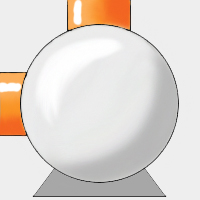
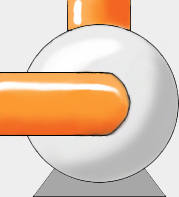
lab 2 without inputs info

diff --git a/views/secondApp.html b/views/secondApp.html
@@ -24,7 +24,7 @@
 <body>
 
 <div id="appBlock">
-    <div class="myProgress" style="margin-left: 876px; margin-top: 612px;">
+    <div class="myProgress" style="margin-left: 946px; margin-top: 612px;">
         <div class="myBar" id="barIndicator0"></div>
     </div>
     <div class="myProgress" style="margin-left: 1144px; margin-top: 414px;">
@@ -37,8 +37,8 @@
     </div>
     <img class="abs" id="tank" src="/images/secondApp/Tank.jpg" title="Танк c молоком">
     <img class="abs" id="nasos" title="Насос" src="/images/secondApp/Nasos.jpg">
-    <img class="abs" id="buffer_tank" title="Расширительный бак" src="/images/secondApp/buferny_bak_2.jpg">
-    <img class="abs" id="nasos2" title="Насос" src="/images/secondApp/Nasos_vniz.jpg">
+    <img class="abs" id="buffer_tank" title="Расширительный бак" src="/images/secondApp/buferny_bak.jpg">
+    <img class="abs" id="nasos2" title="Насос" src="/images/secondApp/Nasos.jpg">
     <img class="abs" id="gomo" onclick="chooseGomog()" title="Гомогенизатор" src="/images/secondApp/gomogena.jpg">
     <img class="abs" id="pou1" onclick="chooseSec1()" title="ПОУ1" src="/images/secondApp/1.jpg">
     <img class="abs" id="pou2" onclick="chooseSec2()" title="ПОУ2" src="/images/secondApp/2.jpg">
@@ -49,83 +49,93 @@
     <img class="abs" id="separator" title="Сепаратор" src="/images/secondApp/Separator_2.jpg">
     <img class="abs" id="slivki" title="Танк со сливками" src="/images/secondApp/bak_dlya_slivok.jpg">
     <img class="abs" id="tank2" title="Танк с готовым продуктом" src="/images/secondApp/bak_s_produktom.jpg">
+    <img class="abs" id="kran" title="Кран" src="/images/secondApp/kran_vlevo.jpg">
         <!-- Pipes -->
     <!-- Вертикальные -->
-    <div class="outerPipesVert" id="vertPipe1" style="height: 19px; margin-top: 286px; margin-left: 62px;">
-        <div class="innerPipesVert" data-lenght="19"></div>
+    <div class="outerPipesVert" id="vertPipe1" style="height: 232px; margin-top: 286px; margin-left: 62px;">
+        <div class="innerPipesVert" data-lenght="215"></div>
     </div>
-    <div class="outerPipesVert" id="vertPipe2" style="height: 63px; margin-top: 219px; margin-left: 171px; -webkit-transform: rotate(-180deg);">
-        <div class="innerPipesVert" data-lenght="63"></div>
+    <div class="outerPipesVert" id="vertPipe2" style="height: 69px; margin-top: 411px; margin-left: 98px; -webkit-transform: rotate(-180deg);">
+        <div class="innerPipesVert" data-lenght="69"></div>
     </div>
-    <div class="outerPipesVert" id="vertPipe3" style="height: 35px; margin-top: 202px; margin-left: 287px;">
+    <div class="outerPipesVert" id="vertPipe3" style="height: 35px; margin-top: 394px; margin-left: 195px;">
         <div class="innerPipesVert" data-lenght="18" style="margin-top: 17px;"></div>
     </div>
-    <div class="outerPipesVert" id="vertPipe4" style="height: 80px; margin-top: 157px; margin-left: 312px;">
-        <div class="innerPipesVert" data-lenght="63" style="margin-top: 17px;"></div>
+    <div class="outerPipesVert" id="vertPipe4" style="height: 272px; margin-top: 157px; margin-left: 234px;">
+        <div class="innerPipesVert" data-lenght="255" style="margin-top: 17px;"></div>
     </div>
-    <div class="outerPipesVert" id="vertPipe5" style="height: 30px; margin-top: 342px; margin-left: 479px;">
+    <div class="outerPipesVert" id="vertPipe5" style="height: 30px; margin-top: 342px; margin-left: 549px;">
         <div class="innerPipesVert" data-lenght="30"></div>
     </div>
-    <div class="outerPipesVert" id="vertPipe6" style="height: 48px; margin-top: 324px; margin-left: 558px; -webkit-transform: rotate(-180deg);">
-        <div class="innerPipesVert" data-lenght="48"></div>
+    <div class="outerPipesVert" id="vertPipe6" style="height: 30px; margin-top: 342px; margin-left: 628px; -webkit-transform: rotate(-180deg);">
+        <div class="innerPipesVert" data-lenght="30"></div>
     </div>
-    <div class="outerPipesVert" id="vertPipe7" style="height: 48px; margin-top: 324px; margin-left: 636px;">
-        <div class="innerPipesVert" data-lenght="48"></div>
+    <div class="outerPipesVert" id="vertPipe7" style="height: 30px; margin-top: 342px; margin-left: 706px;">
+        <div class="innerPipesVert" data-lenght="30"></div>
     </div>
-    <div class="outerPipesVert" id="vertPipe8" style="height: 344px; margin-top: 174px; margin-left: 845px; -webkit-transform: rotate(-180deg);">
-        <div class="innerPipesVert" data-lenght="327" style="margin-top: 17px;"></div>
+    <div class="outerPipesVert" id="vertPipe8" style="height: 349px; margin-top: 174px; margin-left: 915px; -webkit-transform: rotate(-180deg);">
+        <div class="innerPipesVert" data-lenght="332" style="margin-top: 17px;"></div>
     </div>
-    <div class="outerPipesVert" id="vertPipe9" style="height: 38px; margin-top: 534px; margin-left: 479px;">
+    <div class="outerPipesVert" id="vertPipe9" style="height: 38px; margin-top: 534px; margin-left: 549px;">
         <div class="innerPipesVert" data-lenght="38"></div>
     </div>
-    <div class="outerPipesVert" id="vertPipe10" style="height: 30px; margin-top: 534px; margin-left: 558px; -webkit-transform: rotate(-180deg);">
+    <div class="outerPipesVert" id="vertPipe10" style="height: 30px; margin-top: 534px; margin-left: 628px; -webkit-transform: rotate(-180deg);">
         <div class="innerPipesVert" data-lenght="30"></div>
     </div>
-    <div class="outerPipesVert" id="vertPipe11" style="height: 161px; margin-top: 589px; margin-left: 710px;">
+    <div class="outerPipesVert" id="vertPipe11" style="height: 161px; margin-top: 589px; margin-left: 780px;">
         <div class="innerPipesVert" data-lenght="144"></div>
     </div>
-    <div class="outerPipesVert" id="vertPipe12" style="height: 248px; margin-top: 534px; margin-left: 399px;">
+    <div class="outerPipesVert" id="vertPipe12" style="height: 248px; margin-top: 534px; margin-left: 469px;">
         <div class="innerPipesVert" data-lenght="231"></div>
     </div>
-    <div class="outerPipesVert" id="vertPipe13" style="height: 231px; margin-top: 534px; margin-left: 1055px; -webkit-transform: rotate(-180deg);">
+    <div class="outerPipesVert" id="vertPipe13" style="height: 231px; margin-top: 534px; margin-left: 1056px; -webkit-transform: rotate(-180deg);">
         <div class="innerPipesVert" data-lenght="231"></div>
+    </div>
+    <div class="outerPipesVert" id="vertPipe14" style="height: 124px; margin-top: 394px; margin-left: 334px;">
+        <div class="innerPipesVert" data-lenght="90" style="margin-top: 17px;"></div>
+    </div>
+    <div class="outerPipesVert" id="vertPipe15" style="height: 35px; margin-top: 394px; margin-left: 271px; -webkit-transform: rotate(-180deg);">
+        <div class="innerPipesVert" data-lenght="18"></div>
+    </div>
+    <div class="outerPipesVert" id="vertPipe16" style="height: 155px; margin-top: 325px; margin-left: 370px; -webkit-transform: rotate(-180deg);">
+        <div class="innerPipesVert" data-lenght="138"></div>
     </div>
     <!-- Горизонтальные -->
-    <div class="outerPipesHorz" id="horzPipe1" style="margin-top: 305px; margin-left: 62px; width: 88px;">
-        <div class="innerPipesHorz" data-lenght="71" style="margin-left: 17px;"></div>
+    <div class="outerPipesHorz" id="horzPipe1" style="margin-top: 394px; margin-left: 288px; width: 46px;">
+        <div class="innerPipesHorz" data-lenght="46"></div>
     </div>
-    <div class="outerPipesHorz" id="horzPipe2" style="margin-top: 202px; margin-left: 171px; width: 116px;">
-        <div class="innerPipesHorz" data-lenght="99" style="margin-left: 17px;"></div>
+    <div class="outerPipesHorz" id="horzPipe2" style="margin-top: 394px; margin-left: 98px; width: 97px;">
+        <div class="innerPipesHorz" data-lenght="82" style="margin-left: 17px;"></div>
     </div>
-    <div class="outerPipesHorz" id="horzPipe3" style="margin-top: 287px; margin-left: 374px; width: 50px;">
-        <div class="innerPipesHorz" data-lenght="33"></div>
+    <div class="outerPipesHorz" id="horzPipe3" style="margin-top: 325px; margin-left: 387px; width: 179px;">
+        <div class="innerPipesHorz" data-lenght="162"></div>
     </div>
-    <div class="outerPipesHorz" id="horzPipe4" style="margin-top: 304px; margin-left: 407px; width: 50px;">
+    <!--<div class="outerPipesHorz" id="horzPipe4" style="margin-top: 304px; margin-left: 407px; width: 50px;">
         <div class="innerPipesHorz" data-lenght="33" style="margin-left: 17px;"></div>
-    </div>
-    <div class="outerPipesHorz" id="horzPipe5" style="margin-top: 388px; margin-left: 685px; width: 90px;">
+    </div>-->
+    <div class="outerPipesHorz" id="horzPipe5" style="margin-top: 382px; margin-left: 755px; width: 90px;">
         <div class="innerPipesHorz" data-lenght="89"></div>
     </div>
-    <div class="outerPipesHorz" id="horzPipe6" style="margin-top: 501px; margin-left: 685px; width: 90px; text-align: -webkit-right;">
-        <div class="innerPipesHorz" data-lenght="90"></div>
+    <div class="outerPipesHorz" id="horzPipe6" style="margin-top: 506px; margin-left: 755px; width: 60px; text-align: -webkit-right;">
+        <div class="innerPipesHorz" data-lenght="60"></div>
     </div>
-    <div class="outerPipesHorz" id="horzPipe7" style="margin-top: 157px; margin-left: 329px; width: 533px; text-align: -webkit-right;">
-        <div class="innerPipesHorz" data-lenght="516" style="margin-right: 17px;"></div>
+    <div class="outerPipesHorz" id="horzPipe7" style="margin-top: 157px; margin-left: 251px; width: 681px; text-align: -webkit-right;">
+        <div class="innerPipesHorz" data-lenght="664" style="margin-right: 17px;"></div>
     </div>
-    <div class="outerPipesHorz" id="horzPipe8" style="margin-top: 501px; margin-left: 775px; width: 70px;">
-        <div class="innerPipesHorz" data-lenght="89" style="margin-left: -20px;"></div>
+    <div class="outerPipesHorz" id="horzPipe8" style="margin-top: 506px; margin-left: 850px; width: 65px;">
+        <div class="innerPipesHorz" data-lenght="65"></div>
     </div>
-    <div class="outerPipesHorz" id="horzPipe9" style="margin-top: 572px; margin-left: 479px; width: 72px;">
+    <div class="outerPipesHorz" id="horzPipe9" style="margin-top: 572px; margin-left: 549px; width: 72px;">
         <div class="innerPipesHorz" data-lenght="55" style="margin-left: 17px;"></div>
     </div>
-    <div class="outerPipesHorz" id="horzPipe10" style="margin-top: 572px; margin-left: 581px; width: 146px;">
+    <div class="outerPipesHorz" id="horzPipe10" style="margin-top: 572px; margin-left: 651px; width: 146px;">
         <div class="innerPipesHorz" data-lenght="128"></div>
     </div>
-    <div class="outerPipesHorz" id="horzPipe11" style="margin-top: 733px; margin-left: 727px; width: 98px;">
+    <div class="outerPipesHorz" id="horzPipe11" style="margin-top: 733px; margin-left: 797px; width: 98px;">
         <div class="innerPipesHorz" data-lenght="97"></div>
     </div>
-    <div class="outerPipesHorz" id="horzPipe12" style="margin-top: 765px; margin-left: 416px; width: 656px;">
-        <div class="innerPipesHorz" data-lenght="639"></div>
+    <div class="outerPipesHorz" id="horzPipe12" style="margin-top: 765px; margin-left: 486px; width: 587px;">
+        <div class="innerPipesHorz" data-lenght="570"></div>
     </div>
     <div id="buttons">
         <button id="playButton" onclick="startApp()">Начать выполнение работы</button><br/>

diff --git a/scripts/secondLab.js b/scripts/secondLab.js
@@ -62,9 +62,19 @@ var reportObj = {};
 reportObj.errors = [];
 reportObj.log = [];
 reportObj.user = user;
+var kran = {
+    elem : document.getElementById('kran'),
+    isRight : true,
+    changeRightImg: function () {
+        this.elem.src = '/images/secondApp/kran_vpravo.jpg';
+    },
+    changeLeftImg: function () {
+        this.elem.src = '/images/secondApp/kran_vlevo.jpg';
+    }
+};
 
 var mainPipes;
-for(var i=1; i<14; i++)
+for(var i=1; i<17; i++)
 {
     vertPipes[i] = document.getElementById('vertPipe'+i);
 }
@@ -72,14 +82,17 @@ for(var j=1; j<13; j++)
 {
     horzPipes[j] = document.getElementById('horzPipe'+j);
 }
-var correctPipes = [vertPipes[1],
-    horzPipes[1],
+var correctPipes = [
+    vertPipes[1],
     vertPipes[2],
     horzPipes[2],
     vertPipes[3],
     rashirTankDelay,
+    vertPipes[15],
+    horzPipes[1],
+    vertPipes[14],
+    vertPipes[16],
     horzPipes[3],
-    horzPipes[4],
     vertPipes[5],
     vertPipes[9],
     horzPipes[9],
@@ -98,14 +111,17 @@ var correctPipes = [vertPipes[1],
     horzPipes[12],
     vertPipes[13]
 ];
-var inCorrectPipes = [vertPipes[1],
-    horzPipes[1],
+var inCorrectPipes = [
+    vertPipes[1],
     vertPipes[2],
     horzPipes[2],
     vertPipes[3],
     rashirTankDelay,
+    vertPipes[15],
+    horzPipes[1],
+    vertPipes[14],
+    vertPipes[16],
     horzPipes[3],
-    horzPipes[4],
     vertPipes[5],
     vertPipes[9],
     horzPipes[9],
@@ -126,8 +142,11 @@ var inCorrectPipes = [vertPipes[1],
 
 ];
 var againCorrectPipes = [
+    vertPipes[15],
+    horzPipes[1],
+    vertPipes[14],
+    vertPipes[16],
     horzPipes[3],
-    horzPipes[4],
     vertPipes[5],
     vertPipes[9],
     horzPipes[9],
@@ -176,6 +195,11 @@ function pipeAnimation() {
     var internalPipe = pipe.firstElementChild;
     var lenght = internalPipe.getAttribute('data-lenght');
     var isVertical = internalPipe.className == "innerPipesVert";
+
+    if(mainPipes[iterator].id == 'horzPipe8')
+        kran.changeRightImg();
+    if(mainPipes[iterator].id == 'horzPipe6')
+        kran.changeLeftImg();
 
     var id = setInterval(frame, animationSpeed);
 
@@ -249,6 +273,8 @@ function clearPipes() {
     var internalPipe;
     for(var v = 1; v < vertPipes.length; v++)
     {
+        if(vertPipes[v] == null)
+            continue;
         pipe = vertPipes[v];
         internalPipe = pipe.firstElementChild;
         internalPipe.style.height = '0px';
@@ -256,6 +282,8 @@ function clearPipes() {
     }
     for(var h = 1; h < horzPipes.length; h++)
     {
+        if(horzPipes[h] == null)
+            continue;
         pipe = horzPipes[h];
         internalPipe = pipe.firstElementChild;
         internalPipe.style.width = '0px';

diff --git a/css/secondApp.css b/css/secondApp.css
@@ -24,81 +24,87 @@ body
 {
     width: 130px;
     margin-left: 998px;
-    margin-top: 303px;
+    margin-top: 317px;
 }
 
 #slivki
 {
     width: 90px;
-    margin-top: 573px;
-    margin-left: 772px;
+    margin-top: 583px;
+    margin-left: 842px;
 }
 #separator
 {
     width: 150px;
-    margin-left: 517px;
+    margin-left: 587px;
     margin-top: 594px;
 }
 #kirpich
 {
     width: 30px;
-    margin-left: 551px;
+    margin-left: 621px;
     margin-top: 564px;
 }
 #gomo
 {
-    width: 170px;
-    margin-top: 210px;
-    margin-left: 525px;
+    width: 176px;
+    margin-top: 206px;
+    margin-left: 587px;
 }
 #pou1
 {
     width: 80px;
-    margin-left: 447px;
+    margin-left: 517px;
     margin-top: 372px;
 }
 #pou2
 {
     width: 80px;
-    margin-left: 526px;
+    margin-left: 596px;
     margin-top: 372px;
 }
 #pou3
 {
     width: 80px;
-    margin-left: 605px;
+    margin-left: 675px;
     margin-top: 372px;
 }
 #pou4
 {
     width: 80px;
-    margin-left: 368px;
+    margin-left: 438px;
     margin-top: 372px;
 }
 #viderj
 {
     width: 65px;
-    margin-top: 405px;
-    margin-left: 729px;
+    margin-top: 399px;
+    margin-left: 799px;
 }
 #nasos
 {
-    width: 60px;
-    margin-top: 282px;
-    margin-left: 150px;
+    width: 49px;
+    margin-top: 480px;
+    margin-left: 79px;;
 }
 #nasos2
 {
-    width: 60px;
-    margin-top: 282px;
-    margin-left: 457px;
+    width: 49px;
+    margin-top: 480px;
+    margin-left: 351px;
 }
 #buffer_tank
 {
     width: 120px;
     height: 105px;
-    margin-top: 237px;
-    margin-left: 254px;
+    margin-top: 429px;
+    margin-left: 181px;
+}
+#kran
+{
+    width: 35px;
+    margin-top: 495px;
+    margin-left: 815px;
 }
 .outerPipesVert
 {
@@ -129,7 +135,7 @@ body
 #buttons
 {
     position: absolute;
-    margin-top: 500px;
+    margin-top: 700px;
 
 }
 #startButton

diff --git a/views/login.html b/views/login.html
@@ -14,7 +14,7 @@
         <input type="password" class="form-control" placeholder="Пароль" id="inputPassword">
         <button class="btn btn-lg btn-primary btn-block" type="submit" onclick="login()">Войти</button>
     </form>
-    <!--<a href="secondApp.html" id="cheatButton1"><button>лаб2</button></a>-->
+    <a href="secondApp.html" id="cheatButton1"><button>лаб2</button></a>
     <div id="doReg">
         <a href="reg.html">Зарегистрироваться</a>
     </div>
